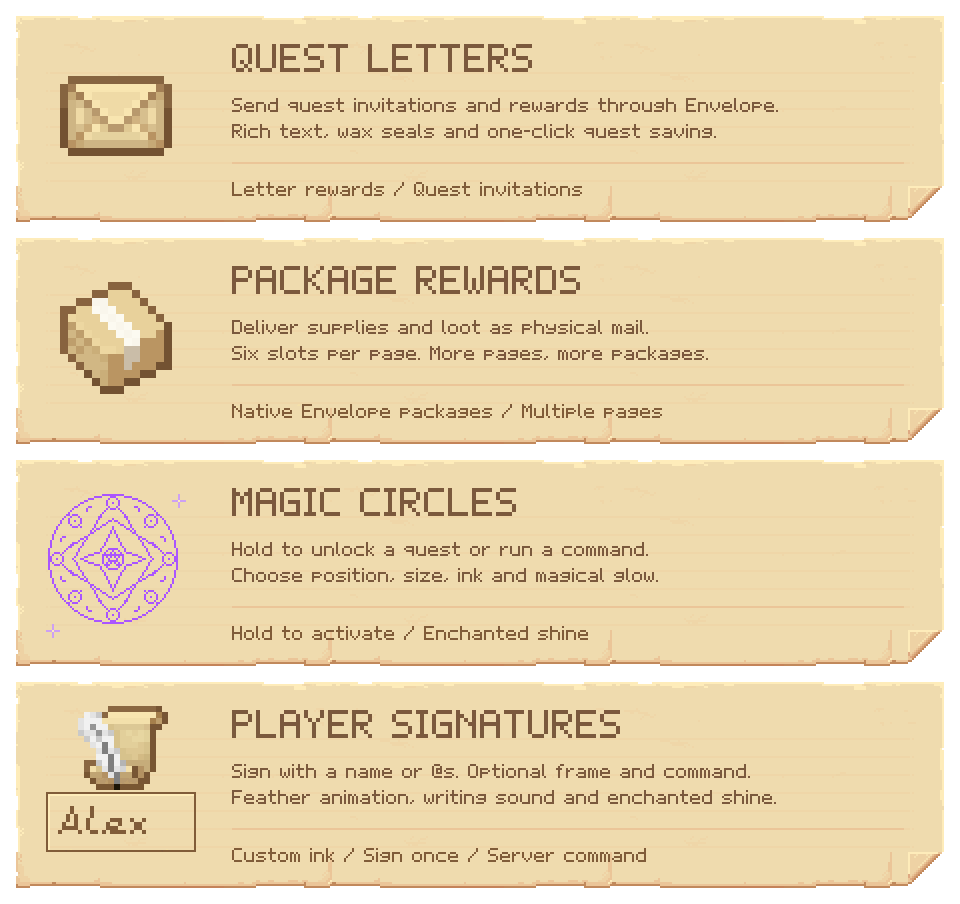
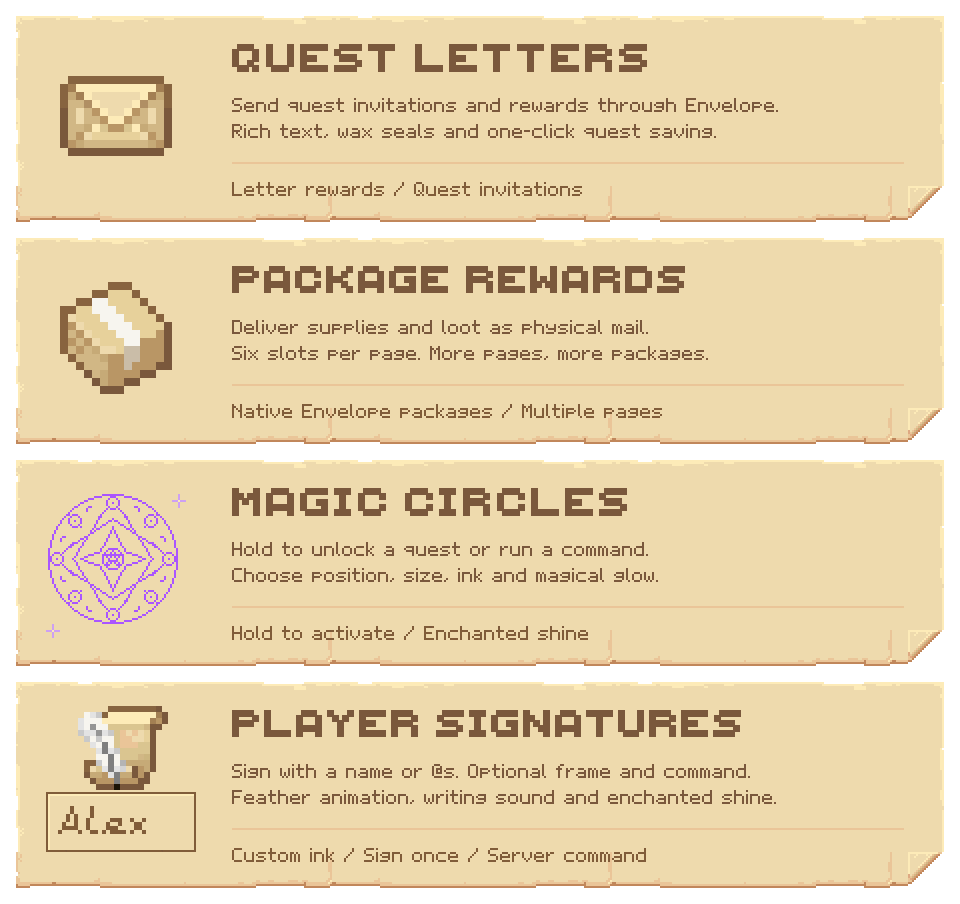
Replace feature overview with Minecraft Five Bold artwork

diff --git a/scripts/sync-platform-descriptions.py b/scripts/sync-platform-descriptions.py
@@ -8,9 +8,16 @@ import urllib.parse
 import urllib.request
 
 
+def is_public_feature_url(url: str) -> bool:
+    return url.startswith("https://cdn.modrinth.com/") or re.fullmatch(
+        r"https://raw\.githubusercontent\.com/exco9/mods-media/[0-9a-f]{40}/features\.png",
+        url,
+    ) is not None
+
+
 def description(readme: str, feature_url: str) -> str:
-    if not feature_url.startswith("https://cdn.modrinth.com/"):
-        raise ValueError("Expected a public Modrinth CDN image URL")
+    if not is_public_feature_url(feature_url):
+        raise ValueError("Expected a public QLXE feature image URL")
     feature_pattern = r"(!\[Quest letters, package rewards, magic circles and player signatures\])\([^)]+\)"
     body, replacements = re.subn(feature_pattern, lambda match: f"{match.group(1)}({feature_url})", readme)
     if replacements != 1:
@@ -60,9 +67,9 @@ def main():
         return None
 
     readme = Path("README.md").read_text(encoding="utf-8")
-    existing = re.search(r"!\[Quest letters, package rewards, magic circles and player signatures\]\((https://cdn\.modrinth\.com/[^)]+)\)", readme)
+    existing = re.search(r"!\[Quest letters, package rewards, magic circles and player signatures\]\((https://[^)]+)\)", readme)
     feature_url = None
-    if existing:
+    if existing and is_public_feature_url(existing.group(1)):
         # CDN images may be optimized, so their bytes differ from the source PNG.
         with urllib.request.urlopen(existing.group(1), timeout=30) as response:
             if response.headers.get_content_type().startswith("image/"):

diff --git a/README.md b/README.md
@@ -10,7 +10,7 @@ Turn **Questlog quests** into **Envelope letters and packages**. Deliver invitat
 
 ## What can you do?
 
-![Quest letters, package rewards, magic circles and player signatures](https://cdn.modrinth.com/data/oibxnCeY/images/10714e4a78822c8e022623538d5907e6d8fa565d.png)
+![Quest letters, package rewards, magic circles and player signatures](https://raw.githubusercontent.com/exco9/mods-media/fef14caf7081d16f3a7fa3cc2c6b448ad71276e0/features.png)
 
 - **Build mail quests:** track received quest mail or sent deliveries, with recipient, text and item filters.
 - **Design letters in-game:** format text, place circles and signatures anywhere on the paper, then save the quest in one click.

diff --git a/.github/descriptions/curseforge.md b/.github/descriptions/curseforge.md
@@ -8,7 +8,7 @@ Turn **Questlog quests** into **Envelope letters and packages**. Deliver invitat
 
 ## What can you do?
 
-![Quest letters, package rewards, magic circles and player signatures](https://cdn.modrinth.com/data/oibxnCeY/images/10714e4a78822c8e022623538d5907e6d8fa565d.png)
+![Quest letters, package rewards, magic circles and player signatures](https://raw.githubusercontent.com/exco9/mods-media/fef14caf7081d16f3a7fa3cc2c6b448ad71276e0/features.png)
 
 - **Build mail quests:** track received quest mail or sent deliveries, with recipient, text and item filters.
 - **Design letters in-game:** format text, place circles and signatures anywhere on the paper, then save the quest in one click.

diff --git a/.github/descriptions/modrinth.md b/.github/descriptions/modrinth.md
@@ -8,7 +8,7 @@ Turn **Questlog quests** into **Envelope letters and packages**. Deliver invitat
 
 ## What can you do?
 
-![Quest letters, package rewards, magic circles and player signatures](https://cdn.modrinth.com/data/oibxnCeY/images/10714e4a78822c8e022623538d5907e6d8fa565d.png)
+![Quest letters, package rewards, magic circles and player signatures](https://raw.githubusercontent.com/exco9/mods-media/fef14caf7081d16f3a7fa3cc2c6b448ad71276e0/features.png)
 
 - **Build mail quests:** track received quest mail or sent deliveries, with recipient, text and item filters.
 - **Design letters in-game:** format text, place circles and signatures anywhere on the paper, then save the quest in one click.
